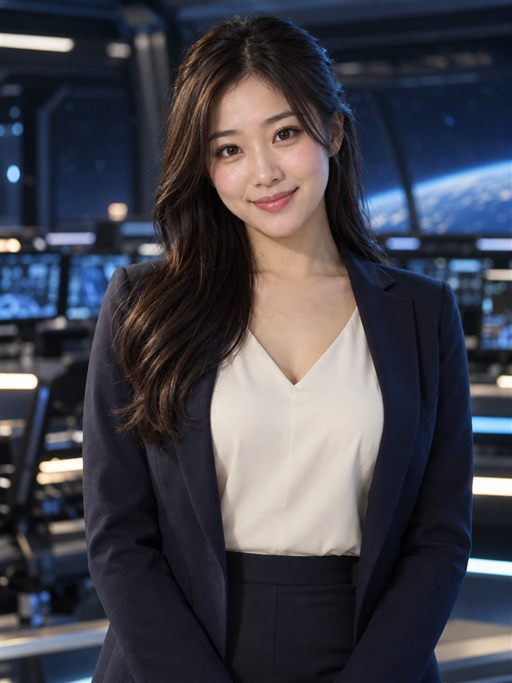
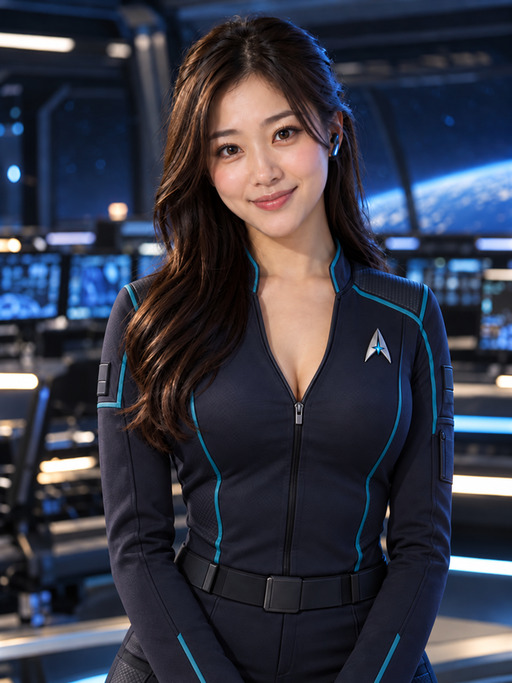
Batch cross-system pickups and improve map readability

diff --git a/PROJECT_STATUS.md b/PROJECT_STATUS.md
@@ -1,8 +1,29 @@
 # 현재 프로젝트 상태
 
-마지막 갱신: 2026-10-30 (KST) · 마지막 작업 AI: Claude Code (Cloud) · 브랜치 `main`
+마지막 갱신: 2026-10-30 (KST) · 마지막 작업 AI: Codex · 브랜치 `work`
 
 ## 현재 인계 상태
+
+- **최신 작업 — 행성계 왕복 최소화:** 사용자가 스탠턴 픽업을 최대한 모아 파이로로 한 번에 이동하도록 요청했다. `engine.mjs`, `route-only.mjs`, 신규 `route-search.mjs`·`route-estimate.mjs`에서 전체 남은 경로를 고려한다. 7개 이하 운송 구간은 재방문 가능한 상태 DP, 그보다 많고 활성 거점 16개 이하는 픽업 선행·거점 1회 방문 조건의 부분집합 DP, 그 외와 적재 불가능·마감 조건은 남은 이동 비용을 고려하는 제한 탐색을 사용한다. 전체 적재·마감·하역 비용의 전역 최적을 보장하지 않는다.
+- 여러 화물이 같은 거점을 쓰면 한 번 방문해서 처리하되 미션·운송·상자 ID는 유지한다. 적재는 실제 그리드로 재검증하며 기존 aboard 배치를 보존한다. 제한 탐색도 같은 행성계에 추가로 실을 수 있는 픽업이 있으면 먼저 모은다(마감·거점 미루기 설정은 별도 우선).
+- 실제 사용자 계약 중 픽업 수량이 명확한 6개(363 SCU), Orison 출발·기본 속도에서 간편 경로 268.22분/5점프 → 173.82분/1점프. 총 14개 거점을 각각 한 번 방문한다. 마지막 7번째 계약은 두 픽업지별 수량 미확정이므로 비교에서 제외했다. 기존 OCR의 균등 수량 가정·경고는 변경하지 않았다.
+- Hull B의 기존 전용 그리드 조건에서는 위 6개에 17구역이 필요해 16구역에 함께 실을 수 없다. 공유 정책을 자동 변경하지 않는다. 「여러 미션이 한 그리드 공유 → 공유 허용」일 때 실제로 적재 가능한지 검사했고, 363/512 SCU·1점프를 확인했다. 전용 그리드 때문에 추가 운송이 생기면 관련 안내를 표시한다.
+- 검증: 전체 Node 테스트 58개 통과(추가 11개: 실제 계약·작은 문제 완전탐색 비교·적재 제한·고정 화물·그리드 공유 정책·양방향 운송·같은 거점·재개·탐색 한계). Chromium 앱 화면에서 간편·공유 Hull B 상세 모두 1점프, 상세363/512 SCU, 페이지 오류0을 확인했다. 문법·차이 검사 통과.
+- 이번 커밋 범위: 경로 엔진·신규 탐색 모듈·회귀 테스트, 지도 이름·정거장 기호 개선(mapfx.mjs/starmap.mjs), 오퍼레이터 사진과 복장 설명, 이 상태 문서. 검증된 변경은 main에 일반 푸시한다. 최종 원격 커밋과 실제 배포 성공은 Git/Actions로 확인한다.
+- 사용자가 “사진도 배포해 그냥”으로 현재 로컬 오퍼레이터 사진 배포를 승인했다. assets/partners/aide.jpg(남색 브이넥 함선 근무복, 어깨를 조금 좁힌 시안)와 docs/CLOUD-HANDOFF.md의 복장 설명도 함께 반영한다. 다른 젊은 성인 여성 얼굴로 완전히 교체하는 요청은 생성 도구 차단으로 구현되지 않았으며, 현재 시안의 배포 승인과 구분한다.
+
+- **오퍼레이터 사진 추가 조정:** 사용자가 어깨 폭 축소·더 앳된 성인 얼굴을 요청하고 가슴 쪽 실루엣·브이넥·나머지 복장은 유지하도록 명시했다. 기존 사진을 참조해 어깨를 조금 좁히고 성인 얼굴 인상을 부드럽게 편집한 뒤 `assets/partners/aide.jpg`에 512×683 JPEG로 적용했다. 생성 결과 육안·JPEG 읽기 검증 완료. 지도 수정과 함께 미커밋 상태이며 지도 변경은 위 최신 경로 수정 커밋 범위에 포함한다.
+
+- **추가 요청 — 정거장 기호·클릭:** 라그랑주와 일반 정거장을 같은 station 묶음으로 처리했다. `starmap.mjs` 기호 크기 18→36px, 선택·호버 시 45px. 클릭 반경은 12→기본 25px(최소 24px), 선택 시 표시 크기에 따라 확대한다. 이름과 기호 간격도 실제 표시 크기를 반영한다. 다른 종류의 기호·천체 판정은 유지했다.
+- 검증: Chromium에서 ARC-L1 기호 36px·클릭 반경 25px, 중심에서 20px 떨어진 클릭으로 해당 정거장 선택, 선택 후 45px, 페이지 오류 0 확인. `node --check starmap.mjs`, `git diff --check` 통과. 검증된 지도 변경은 위 최신 경로 수정 커밋 범위에 포함한다.
+
+- **추가 요청 — 지도 이름 가독성:** 저장소 origin은 새 이름 stam-freight-control로 갱신 완료. 로컬 폴더 이름 변경은 불필요하다. `starmap.mjs`에서 확대율에 따라 이름 크기를 점진 확대(최대 1.65배), 기본 글씨 확대, 정거장·라그랑주 표시 거리 완화·우선순위 상향·겹침 시 주변 배치를 적용했다. `mapfx.mjs`에는 해당 거점 이름의 어두운 배경판·밝은 보조 문구를 추가했다. 화면 너비에 맞춰 이름 크기를 제한한다.
+- 검증: 기존 테스트 47개 통과, 문법·차이 확인 통과. 시스템 Chromium에서 전체 지도 정거장 이름, 확대 시 글씨 증가, Everus Harbor 이름 표시 및 페이지 오류 0을 확인했다. 공개 사이트에는 아직 반영하지 않았다.
+
+- **Codex 현재 작업:** 원격 main `13de3ca`까지 fast-forward 갱신하고 AGENTS.md·공통 지침·이 문서를 확인했다. origin은 변경 완료된 stam-freight-control 주소로 갱신했다.
+- 사용자 요청: 브리지 오퍼레이터 사진을 사무실 정장에서 함선용 브이넥 승무원 근무복으로 교체. 얼굴·함교 배경·저장 ID aide와 다른 두 파트너 사진은 유지한다. 이미지 편집·적용 완료. 커밋·푸시·배포는 아직 수행하지 않았다.
+- 최신 코드 확인: Node 22.23.4에서 기존 전체 테스트 47개 통과(실패·건너뜀 0).
+- 아래 Claude 기록은 이전 인계 내용이며 현재 요청에 따른 이미지 작업을 우선한다.
 
 - 마지막 작업 AI: Claude Code (Cloud). Codex `86e439e` 이후 이어서 작업했고, 2026-10-30 **Codex(GPT)로 인계**. 모든 변경은 `main`에 커밋·푸시·배포됨, 미커밋 작업 없음.
 - **Codex가 처음 할 일:** `git pull --ff-only`(또는 사용자 PC에서 `update.cmd`) → `node scripts/prepare.mjs` → `npm test`(현재 47개 통과) → 아래 "다음 작업 우선순위"에서 사용자가 고른 일. 1순위 후보는 Codex만 가능한 **파트너 사진 작업**(아래 "보류된 파트너 사진 작업").
@@ -123,7 +144,15 @@
 - 검증: `tests/stacking.test.mjs` 2개(테스트 40개 통과). 1 SCU 상자 실제 좌표 확인 — Hull B 좌측 그리드 첫 상자 중심축 쪽 면→바깥으로, Hull C 옆면부터, RAFT 맨 위층부터. 브라우저 3D 오류 없음.
 - 미확인: Hull C 데이터 배치는 SuperCargo 도식(구획이 x로 나란함)이라 실제 중심축 위치와 다를 수 있다. Hull A 등 다른 외부 적재 함선의 방향은 사용자 확인 필요.
 
-## 보류된 파트너 사진 작업 (Codex에서 진행 예정)
+## 2026-10-30 Codex — 브리지 오퍼레이터 복장 교체
+
+- `assets/partners/aide.jpg`: 기존 성인 가상 인물의 얼굴·긴 머리·미소와 함교 배경을 참고해 남색 브이넥 승무원 근무복, 청록 배색, 통신 이어피스 사진으로 편집했다. 원본 생성 이미지에서 기존과 같은 512×683 JPEG로 변환·최적화했다.
+- `docs/CLOUD-HANDOFF.md`: 현재 오퍼레이터 복장 설명 갱신. 저장 ID `aide`, 사진 경로, 항해사·장교 사진과 앱 로직·CSS는 유지했다.
+- 이미지 육안 확인, JPEG 형식·크기·참조 경로·다른 사진 미변경·`git diff --check` 검증 완료. 최신 코드의 기존 테스트 47개 통과(사진 적용 전, 코드 변경 없음).
+- 실제 브라우저 렌더링과 공개 사이트 반영은 미검증. 이번 변경은 로컬 작업 폴더에 적용됐으며 커밋·푸시·배포하지 않았다.
+- 세 사진의 거리·구도 통일은 별도 미완료 작업이다. 사용자 요청은 우선 오퍼레이터 복장 교체로 처리했다.
+
+## 이전 파트너 사진 요청과 남은 작업
 
 - 사용자 지적: 선택 화면에서 장교가 멀리, 항해사·비서는 가깝게 보인다(눈~턱 길이 약 57/100/70px). Claude가 장교 1.38배·비서 1.08배 확대 시안을 만들었으나 적용하지 않았다. 사용자는 세 장을 같은 구도로 새로 만드는 방식도 고려 중.
 - `aide` 표시 이름: 사용자 선택으로 **브리지 오퍼레이터** 적용 완료(저장 ID `aide` 유지).

diff --git a/docs/CLOUD-HANDOFF.md b/docs/CLOUD-HANDOFF.md
@@ -65,7 +65,7 @@ Star Citizen의 운송 미션을 여러 개 수주했을 때 스크린샷을 올
 |---|---|---|
 | `standard` | 수석 항해사 | 노련하고 여유 있는 전문가. 경험 많은 중년 남성 사진. |
 | `military` | 항해 장교 | 함장에게 충성하는 확실한 보고체. 정모·단정한 짧은 머리·차렷 자세의 긴장한 장교 사진. 현재 장교 사진은 사용자 승인됨. |
-| `aide` | 브리지 오퍼레이터 (2026-10-30 "전담 비서"에서 변경) | 발랄한 성인 여성 비서. 느낌표와 가벼운 업무 농담을 사용하되, 수량·화물 혼동·오류 안내는 명확하게 전달한다. 현재 사진은 브이넥 블라우스와 재킷의 성인 인물. |
+| `aide` | 브리지 오퍼레이터 (2026-10-30 "전담 비서"에서 변경) | 발랄한 성인 여성 비서. 느낌표와 가벼운 업무 농담을 사용하되, 수량·화물 혼동·오류 안내는 명확하게 전달한다. 현재 사진은 함교 배경에서 남색 브이넥 승무원 근무복·청록 배색·통신 이어피스를 착용한 성인 인물(2026-10-30 Codex 교체). |
 
 첫 인사만 다른 것이 아니라 스샷 확인·정보 부족·출항·배송·되돌리기·재계산·완료까지 같은 성격으로 안내한다. 파트너를 바꿔도 미션과 운항 진행은 보존한다. 실제 음성 TTS가 아니라 **표시되는 문구의 말투**다.
 
